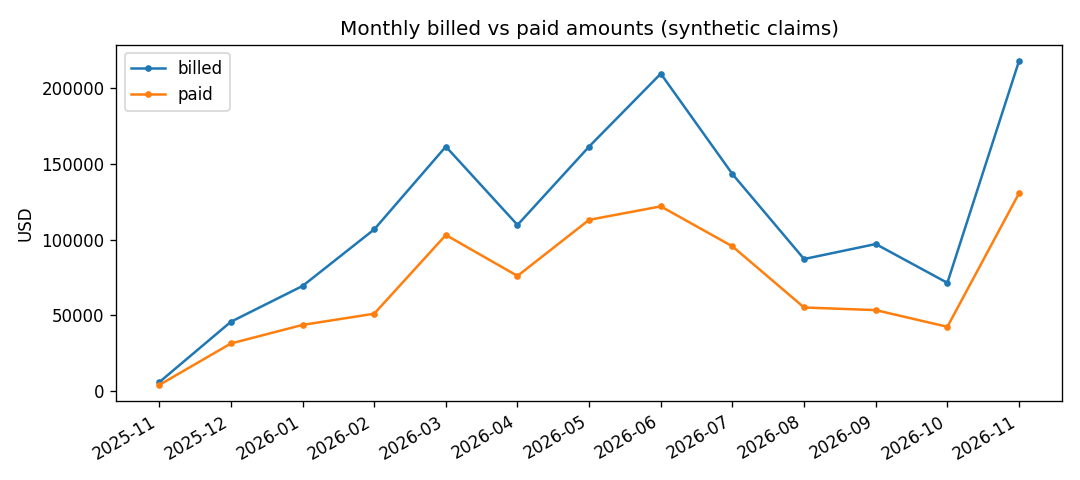
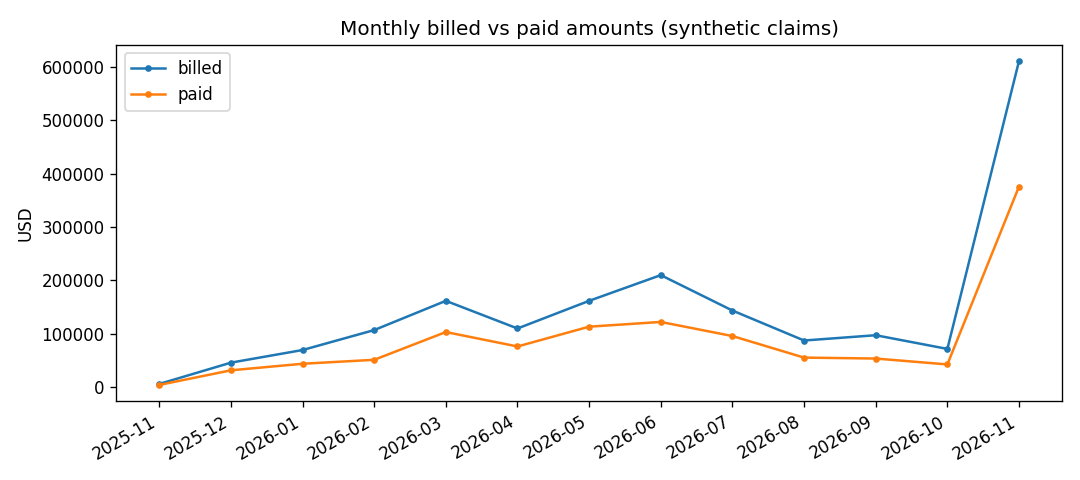
Sequence claim batches so every update round adds fresh data
The generator seeded on the calendar day only, so same-day rounds
regenerated identical claim ids and dedupe swallowed them: 0 new claims
on 3 of 4 daily rounds. Batches now carry a -Bnn- segment derived from
the store, each round gets its own RNG seed under a shared day prefix,
and dedupe still rejects an identical re-ingest. +120 claims today
(B01, B02), 4 new tests (23 total).

diff --git a/src/healthdata/claims.py b/src/healthdata/claims.py
@@ -43,13 +43,21 @@ STATUSES = ["paid", "denied", "adjusted"]
 
 
 class ClaimGenerator:
-    """Deterministic synthetic claims. `ClaimGenerator(seed).claims(n)`."""
+    """Deterministic synthetic claims. `ClaimGenerator(seed).claims(n)`.
 
-    def __init__(self, seed: int = 42):
+    `batch` numbers a batch within a day so several runs a day produce
+    distinct, non-overlapping claims (ids carry a -Bnn- segment). Leave it
+    at 0 for a standalone generator and the id format is unchanged.
+    `id_prefix` overrides the seed-derived prefix so a day's batches share
+    one prefix even though each batch gets its own RNG seed.
+    """
+
+    def __init__(self, seed: int = 42, batch: int = 0, id_prefix: str | None = None):
         self._rng = random.Random(seed)
         # Scope claim ids to the seed so batches from different generators
         # never collide on claim_id (the dedupe grain).
-        self._id_prefix = f"CLM-{seed % 100000:05d}"
+        self._id_prefix = id_prefix or f"CLM-{seed % 100000:05d}"
+        self._batch = batch
         self._claim_seq = 0
 
     def _member(self) -> dict:
@@ -72,8 +80,12 @@ class ClaimGenerator:
         allowed = round(billed * rng.uniform(0.6, 0.95), 2)
         paid = round(allowed * rng.uniform(0.7, 1.0), 2) if status != "denied" else 0.0
         day = service_date or dt.date.today() - dt.timedelta(days=rng.randrange(0, 365))
+        if self._batch:
+            claim_id = f"{self._id_prefix}-B{self._batch:02d}-{self._claim_seq:06d}"
+        else:
+            claim_id = f"{self._id_prefix}-{self._claim_seq:06d}"
         return {
-            "claim_id": f"{self._id_prefix}-{self._claim_seq:06d}",
+            "claim_id": claim_id,
             **member,
             "service_date": day.isoformat(),
             "procedure_code": code,
@@ -87,3 +99,23 @@ class ClaimGenerator:
 
     def claims(self, n: int, service_date: dt.date | None = None) -> list[dict]:
         return [self.claim(service_date) for _ in range(n)]
+
+
+def next_batch_index(claim_ids, day_prefix: str) -> int:
+    """Next batch number for a day, from existing claim ids.
+
+    Scans ids like CLM-61116-B03-000042 for the day's prefix and returns one
+    more than the highest batch seen. A day with only unbatched ids (or no
+    ids yet) starts at 1.
+    """
+    highest = 0
+    marker = f"{day_prefix}-B"
+    for cid in claim_ids:
+        if not cid.startswith(marker):
+            continue
+        try:
+            number = int(cid[len(marker):len(marker) + 2])
+        except ValueError:
+            continue
+        highest = max(highest, number)
+    return highest + 1

diff --git a/tests/test_claims.py b/tests/test_claims.py
@@ -1,6 +1,6 @@
 """Generator: deterministic, schema-complete, plausible values."""
 from healthdata.claims import (ClaimGenerator, DIAGNOSES, PLAN_TYPES,
-                               PROCEDURES, STATUSES)
+                               PROCEDURES, STATUSES, next_batch_index)
 
 
 def test_generator_is_deterministic():
@@ -45,3 +45,39 @@ def test_claim_ids_scoped_to_seed():
     ids_a = {c["claim_id"] for c in a}
     ids_b = {c["claim_id"] for c in b}
     assert ids_a.isdisjoint(ids_b)
+
+
+def test_batches_share_prefix_but_differ():
+    """Same day, two batches: distinct ids AND distinct claim content."""
+    prefix = "CLM-61116"
+    a = ClaimGenerator(20261116 * 1000 + 1, batch=1, id_prefix=prefix).claims(30)
+    b = ClaimGenerator(20261116 * 1000 + 2, batch=2, id_prefix=prefix).claims(30)
+    ids_a = {c["claim_id"] for c in a}
+    ids_b = {c["claim_id"] for c in b}
+    assert not ids_a & ids_b  # disjoint: no dedupe collisions between rounds
+    assert all(i.startswith("CLM-61116-B01-") for i in ids_a)
+    assert all(i.startswith("CLM-61116-B02-") for i in ids_b)
+    # content differs too - not the same claims with new ids
+    assert [c["billed_amount"] for c in a] != [c["billed_amount"] for c in b]
+
+
+def test_batch_zero_keeps_original_id_format():
+    claims = ClaimGenerator(seed=7).claims(3)
+    assert all("-B" not in c["claim_id"] for c in claims)
+
+
+def test_same_batch_reproduces_identically():
+    a = ClaimGenerator(99, batch=1, id_prefix="CLM-X").claims(10)
+    b = ClaimGenerator(99, batch=1, id_prefix="CLM-X").claims(10)
+    assert a == b
+
+
+def test_next_batch_index_sequences_rounds():
+    assert next_batch_index([], "CLM-61116") == 1
+    # today's unbatched batch exists -> first sequenced batch is B01
+    assert next_batch_index(["CLM-61116-000001"], "CLM-61116") == 1
+    assert next_batch_index(["CLM-61116-B01-000001"], "CLM-61116") == 2
+    assert next_batch_index(
+        ["CLM-61116-B01-000001", "CLM-61116-B03-000002"], "CLM-61116") == 4
+    # other days' ids do not count
+    assert next_batch_index(["CLM-50115-B09-000001"], "CLM-61116") == 1

diff --git a/scripts/daily_update.py b/scripts/daily_update.py
@@ -11,7 +11,7 @@ from pathlib import Path
 sys.path.insert(0, str(Path(__file__).resolve().parents[1] / "src"))
 
 from healthdata import report
-from healthdata.claims import ClaimGenerator
+from healthdata.claims import ClaimGenerator, next_batch_index
 from healthdata.pipeline import Pipeline
 from healthdata.quality import run_all
 
@@ -22,15 +22,22 @@ BATCH_SIZE = 60
 
 
 def main() -> int:
-    # Seed on the day so each run adds a distinct but reproducible batch.
+    # Multiple rounds a day must each add a fresh batch, so the seed mixes
+    # the day with a batch sequence number taken from the store. Same day +
+    # same store state reproduces the same batch; a new round never
+    # regenerates claim ids the dedupe grain would swallow.
     today = dt.date.today()
-    seed = int(today.strftime("%Y%m%d"))
-    batch = ClaimGenerator(seed).claims(BATCH_SIZE, service_date=today)
+    day_seed = int(today.strftime("%Y%m%d"))
+    day_prefix = f"CLM-{day_seed % 100000:05d}"
 
     pipe = Pipeline(STORE)
+    batch_no = next_batch_index(pipe.load_store().keys(), day_prefix)
+    batch = ClaimGenerator(day_seed * 1000 + batch_no, batch=batch_no,
+                           id_prefix=day_prefix).claims(BATCH_SIZE, service_date=today)
+
     stats = pipe.ingest(batch)
-    print(f"ingested {stats['added']} new claims ({len(stats['rejected'])} rejected); "
-          f"store holds {stats['total']}")
+    print(f"ingested {stats['added']} new claims from batch B{batch_no:02d} "
+          f"({len(stats['rejected'])} rejected); store holds {stats['total']}")
     for rej in stats["rejected"]:
         print(f"REJECTED {rej['claim_id']}: {', '.join(rej['problems'])}")
 

diff --git a/reports/claims_report.md b/reports/claims_report.md
@@ -1,8 +1,8 @@
 # Healthcare Data - claims pipeline report
 
-Generated 2026-11-16 14:46 UTC. All data is synthetic - no real member, patient or plan information.
+Generated 2026-11-16 17:06 UTC. All data is synthetic - no real member, patient or plan information.
 
-**560 claims** in store. Billed $1,488,123, paid $922,143, denied 53 overall.
+**680 claims** in store. Billed $1,880,929, paid $1,167,256, denied 65 overall.
 
 ## Monthly financials
 
@@ -20,22 +20,22 @@ Generated 2026-11-16 14:46 UTC. All data is synthetic - no real member, patient 
 | 2026-08 | 50 | $87,251 | $70,911 | $55,220 | 18.0% |
 | 2026-09 | 28 | $97,162 | $80,729 | $53,482 | 7.1% |
 | 2026-10 | 47 | $71,505 | $55,063 | $42,442 | 8.5% |
-| 2026-11 | 81 | $218,160 | $169,411 | $130,693 | 4.9% |
+| 2026-11 | 201 | $610,967 | $466,527 | $375,807 | 8.0% |
 
 ## Denial reasons
 
-- not medically necessary (16)
-- duplicate claim (13)
-- timely filing exceeded (12)
-- out-of-network provider (7)
-- missing prior authorization (6)
+- not medically necessary (20)
+- timely filing exceeded (16)
+- duplicate claim (14)
+- out-of-network provider (9)
+- missing prior authorization (7)
 
 ## Plan mix
 
-- PPO: 153
-- HMO: 151
-- EPO: 140
-- HDHP: 116
+- HMO: 183
+- PPO: 182
+- EPO: 171
+- HDHP: 144
 
 ![Monthly billed vs paid](monthly_financials.png)
 

diff --git a/README.md b/README.md
@@ -20,7 +20,9 @@ seeded RNG - no real member, patient, provider or plan data anywhere.
   checks that fail loudly
 - `healthdata.report` - markdown report plus charts
 - `scripts/daily_update.py` - one update round: fresh synthetic batch, quality
-  gates, regenerated report. Idempotent: re-runs add nothing twice
+  gates, regenerated report. Each run adds a new sequenced batch (claim ids
+  carry a -Bnn- segment), so multiple rounds a day all bring new data;
+  pipeline dedupe still prevents double-ingesting an identical batch
 
 ## Try it
 
